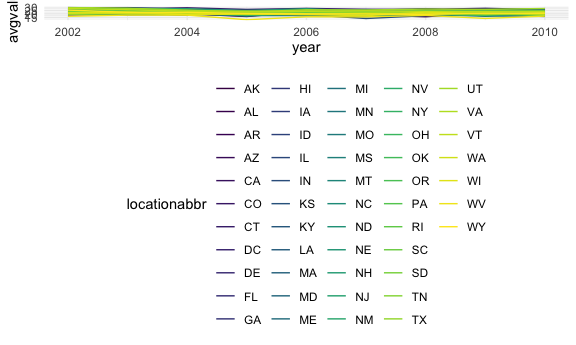
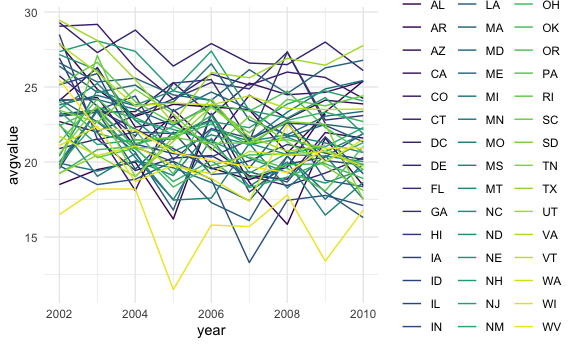
fixing a few errors - plot axis, etc.

diff --git a/p8105_hw3_cz2657.md b/p8105_hw3_cz2657.md
@@ -68,6 +68,16 @@ instacart %>%
     ## 10      349    11
     ## # … with 131,199 more rows
 
+The `instacart` dataset has 15 variables and 1384617 observations. Each
+observation is an item added to an Instacart order. The dataset
+describes those orders in terms of which items had been previously
+ordered by ths customer (`reordered`), in what order they were added to
+the cart (`add_to_cart_order`), and additional product details
+(`product id`, `product_name`, `aisle`, and `department`). For example,
+we know that for the first order (`order_id` = 1), customer 112108
+placed their 4th order 9 days after their prior order. They ordered 8
+items.
+
 ``` r
 instacart %>% 
   count(aisle_id)
@@ -87,16 +97,6 @@ instacart %>%
     ##  9        9  9736
     ## 10       10   448
     ## # … with 124 more rows
-
-The `instacart` dataset has 15 variables and 1384617 observations. Each
-observation is an item added to an Instacart order. The dataset
-describes those orders in terms of which items had been previously
-ordered by ths customer (`reordered`), in what order they were added to
-the cart (`add_to_cart_order`), and additional product details
-(`product id`, `product_name`, `aisle`, and `department`). For example,
-we know that for the first order (`order_id` = 1), customer 112108
-placed their 4th order 9 days after their prior order. They ordered 8
-items.
 
 ``` r
 instacart %>% 
@@ -126,24 +126,23 @@ and 24 (fresh fruits) have the most items ordered from them with over
 
 ``` r
 instacart %>% 
-  group_by(aisle_id) %>% 
+  group_by(aisle) %>% 
   summarize (n_obs = n()) %>% 
   filter(n_obs > 10000) %>% 
-  mutate(aisle_id = fct_reorder(as.factor(aisle_id), n_obs)) %>% 
+  mutate(aisle = fct_reorder(as.factor(aisle), n_obs)) %>% 
   arrange(desc(n_obs)) %>% 
-  ggplot(aes(x = aisle_id, y = n_obs)) +
+  ggplot(aes(x = aisle, y = n_obs)) +
   geom_point() + 
+  theme(axis.text.x = element_text(angle = 90)) +
   labs(
     title = "Items (over 10,000) ordered per aisle", 
-    x = "Aisle Number", 
+    x = "Aisle", 
     y = "Number of Items Ordered", 
     caption = "Data from p8105 package `Instacart`"
   ) 
 ```
 
 <img src="p8105_hw3_cz2657_files/figure-gfm/unnamed-chunk-4-1.png" width="90%" />
-
-## HOW TO FIX SCALE
 
 ``` r
 instacart %>% 
@@ -175,16 +174,16 @@ instacart %>%
   filter(product_name %in% c("Pink Lady Apples", "Coffee Ice Cream")) %>% 
   select(product_name, order_dow, order_hour_of_day) %>% 
   group_by(product_name, order_dow) %>% 
-  summarize(mean_hour = mean(order_hour_of_day)) %>% 
+  summarize(mean_hour = round(mean(order_hour_of_day))) %>% 
   pivot_wider(names_from = order_dow, values_from = mean_hour) %>% 
   rename("Sunday" = "0", "Monday" = "1", "Tuesday" = "2", "Wednesday" = "3", "Thursday" = "4", "Friday" = "5", "Saturday" = "6") %>% 
   knitr::kable(caption = "Mean hour of the day select items are ordered")
 ```
 
-| product\_name    |   Sunday |   Monday |  Tuesday | Wednesday | Thursday |   Friday | Saturday |
-|:-----------------|---------:|---------:|---------:|----------:|---------:|---------:|---------:|
-| Coffee Ice Cream | 13.77419 | 14.31579 | 15.38095 |  15.31818 | 15.21739 | 12.26316 | 13.83333 |
-| Pink Lady Apples | 13.44118 | 11.36000 | 11.70213 |  14.25000 | 11.55172 | 12.78431 | 11.93750 |
+| product\_name    | Sunday | Monday | Tuesday | Wednesday | Thursday | Friday | Saturday |
+|:-----------------|-------:|-------:|--------:|----------:|---------:|-------:|---------:|
+| Coffee Ice Cream |     14 |     14 |      15 |        15 |       15 |     12 |       14 |
+| Pink Lady Apples |     13 |     11 |      12 |        14 |       12 |     13 |       12 |
 
 Mean hour of the day select items are ordered
 
@@ -299,7 +298,8 @@ spaghetti = brfss %>%
 ``` r
 spaghetti %>% 
   ggplot(aes(x = year, y = avgvalue, group = locationabbr, color = locationabbr)) + 
-  geom_line() 
+  geom_line() +
+  theme(legend.position = "right")
 ```
 
     ## Warning: Removed 3 row(s) containing missing values (geom_path).
@@ -334,7 +334,10 @@ nys2010_plot = nys2010 %>%
 accel_df = read_csv("data/accel_data.csv") %>% 
   janitor::clean_names() %>% 
   mutate (weekday_weekend = ifelse(day %in% c("Sunday", "Saturday"), "weekend", "weekday")) %>% 
-  pivot_longer(activity_1:activity_1440, names_to = "minute", names_prefix = "activity_", values_to = "activity_count") %>% 
+  pivot_longer(activity_1:activity_1440, 
+      names_to = "minute", 
+      names_prefix = "activity_", 
+      values_to = "activity_count") %>% 
   mutate(minute = as.numeric(minute)) 
 ```
 
